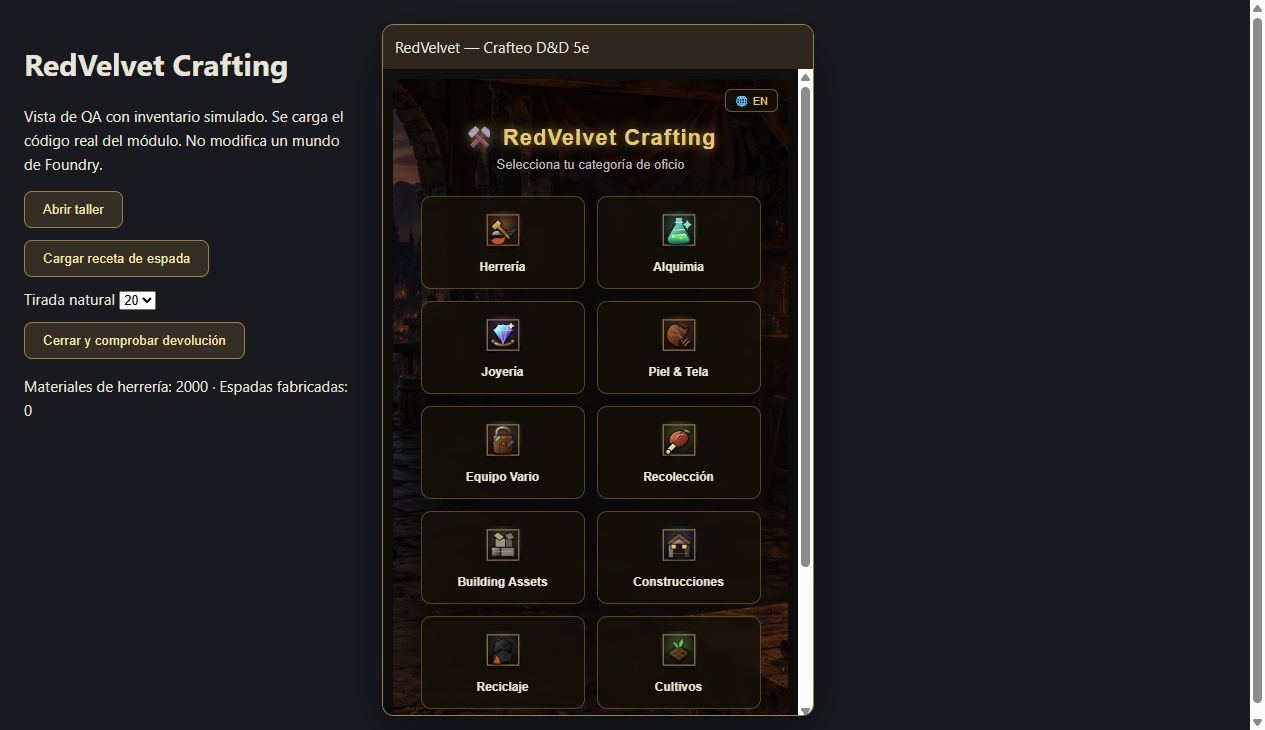
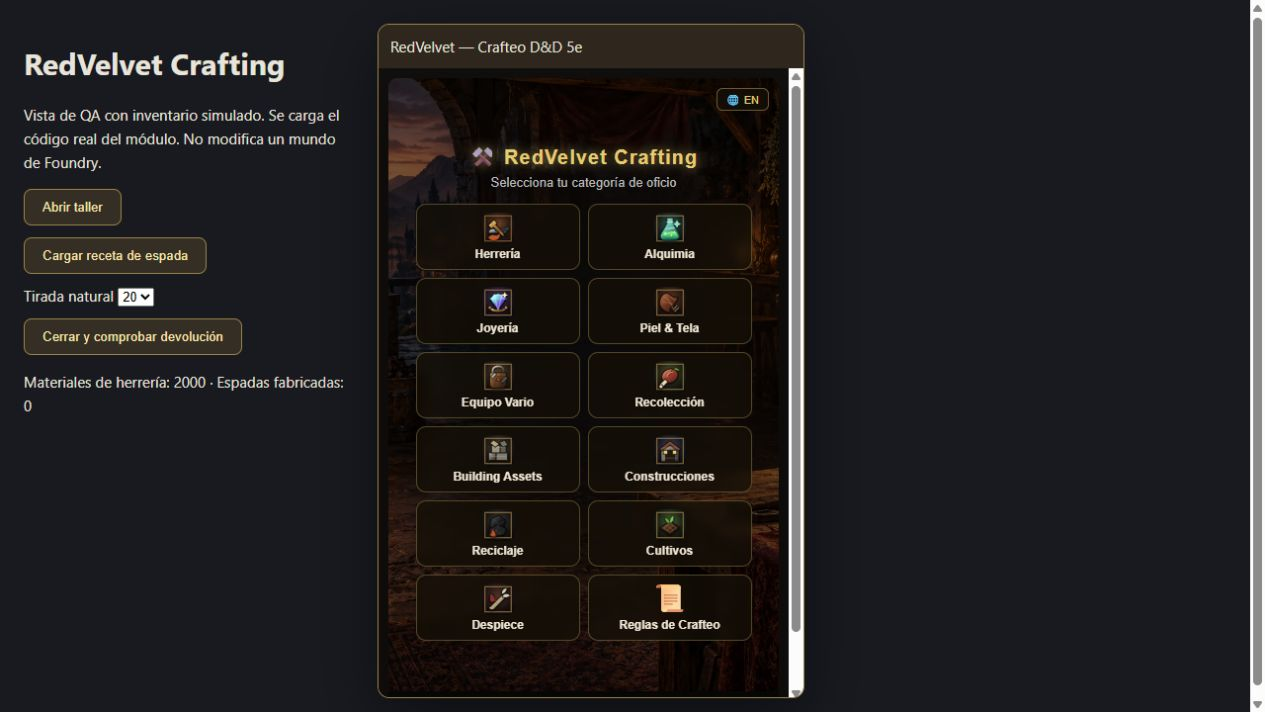
Polish compact menu and restore scroll on navigation

Changed region(s): [[0.0, 0.0309, 0.6474, 0.9888], [0.0308, 0.0618, 0.2466, 0.1236]]

diff --git a/scripts/crafting-dialog.js b/scripts/crafting-dialog.js
@@ -2992,7 +2992,7 @@ import { CraftingSession } from "./session.js";
 
         // ── NAVEGACIÓN: Selección de categoría ──
         html.find("#rv-category-screen .rv-cat-btn").on("click", function () {
-          const cat = $(this).data("category");
+          const cat = $(this).data("category"); html[0].scrollTop = 0;
           craftingSkill = getCraftingMod(actor,cat);
           if (cat === "reglas") {
             html.find("#rv-category-screen").hide();
@@ -3099,14 +3099,14 @@ import { CraftingSession } from "./session.js";
         // Volver desde reglas — delegado porque applyLang reconstruye el contenido
         html.find("#rv-rules-screen").on("click", "#rv-btn-back-rules", () => {
           html.find("#rv-rules-screen").hide();
-          html.find("#rv-category-screen").show();
+          html.find("#rv-category-screen").show(); html[0].scrollTop = 0;
           playSound(SFX_NAV.back);
         });
 
         // Volver desde forja
         html.find("#rv-btn-back-forge").on("click", () => {
           html.find("#rv-forge-screen").hide();
-          html.find("#rv-category-screen").show();
+          html.find("#rv-category-screen").show(); html[0].scrollTop = 0;
           draggedItem = null;
           playSound(SFX_NAV.back);
         });
@@ -3119,7 +3119,7 @@ import { CraftingSession } from "./session.js";
         html.find("#rv-btn-back-gather").on("click", () => {
           if (gatherPlaying) return;
           html.find("#rv-gather-screen").hide();
-          html.find("#rv-category-screen").show();
+          html.find("#rv-category-screen").show(); html[0].scrollTop = 0;
           selectedGatherType = null;
           playSound(SFX_NAV.back);
         });
@@ -3424,7 +3424,7 @@ import { CraftingSession } from "./session.js";
         html.find("#rv-btn-back-build").on("click", () => {
           if (buildPlaying) return;
           html.find("#rv-build-screen").hide();
-          html.find("#rv-category-screen").show();
+          html.find("#rv-category-screen").show(); html[0].scrollTop = 0;
           selectedBuildPiece = null;
           playSound(SFX_NAV.back);
         });
@@ -3699,7 +3699,7 @@ import { CraftingSession } from "./session.js";
         html.find("#rv-btn-back-struct").on("click", () => {
           if (structPlaying) return;
           html.find("#rv-struct-screen").hide();
-          html.find("#rv-category-screen").show();
+          html.find("#rv-category-screen").show(); html[0].scrollTop = 0;
           selectedStruct = null;
           playSound(SFX_NAV.back);
         });
@@ -4029,7 +4029,7 @@ import { CraftingSession } from "./session.js";
         // Volver desde reciclaje
         html.find("#rv-btn-back-salvage").on("click", () => {
           html.find("#rv-salvage-screen").hide();
-          html.find("#rv-category-screen").show();
+          html.find("#rv-category-screen").show(); html[0].scrollTop = 0;
           salvageItem = null;
           playSound(SFX_NAV.back);
         });
@@ -4165,7 +4165,7 @@ import { CraftingSession } from "./session.js";
         html.find("#rv-btn-back-farm").on("click", () => {
           if (farmBusy) return;
           html.find("#rv-farm-screen").hide();
-          html.find("#rv-category-screen").show();
+          html.find("#rv-category-screen").show(); html[0].scrollTop = 0;
           playSound(SFX_NAV.back);
         });
 
@@ -4403,7 +4403,7 @@ import { CraftingSession } from "./session.js";
         html.find("#rv-btn-back-scav").on("click", () => {
           if (scavPlaying) return;
           html.find("#rv-scav-screen").hide();
-          html.find("#rv-category-screen").show();
+          html.find("#rv-category-screen").show(); html[0].scrollTop = 0;
           playSound(SFX_NAV.back);
         });
 

diff --git a/styles/crafting.css b/styles/crafting.css
@@ -8,6 +8,14 @@
 .rv-crafting-dialog button:focus-visible {outline:2px solid var(--rv-gold); outline-offset:3px;}
 .rv-crafting-dialog button:disabled {cursor:not-allowed;}
 .rv-crafting-dialog .rv-category-icon {width:38px; height:38px; object-fit:contain; border:0; border-radius:8px; margin-bottom:5px;}
+.rv-crafting-dialog #rv-category-screen {min-height:620px; padding:14px 16px;}
+.rv-crafting-dialog #rv-category-screen h2 {font-size:20px; margin:14px 0 6px;}
+.rv-crafting-dialog #rv-category-screen .subtitle {margin-bottom:14px;}
+.rv-crafting-dialog #rv-category-screen .rv-category-grid {gap:8px;}
+.rv-crafting-dialog #rv-category-screen .rv-cat-btn {padding:8px 10px; gap:3px;}
+.rv-crafting-dialog #rv-category-screen .rv-category-icon {width:32px; height:32px; margin-bottom:0;}
+.rv-crafting-dialog #rv-category-screen .rules-btn {grid-column:auto; flex-direction:column;}
+.rv-crafting-dialog #rv-category-screen .rules-btn > span:first-child {font-size:28px; line-height:32px;}
 .rv-crafting-dialog .rv-forge-icon {display:inline-flex; position:relative; padding:0; overflow:hidden; cursor:pointer; animation:rv-craft-enter .2s ease-out;}
 .rv-crafting-dialog .rv-forge-icon img {pointer-events:none;}
 .rv-crafting-dialog .rv-forge-icon .rv-countdown {font-variant-numeric:tabular-nums; pointer-events:none;}
